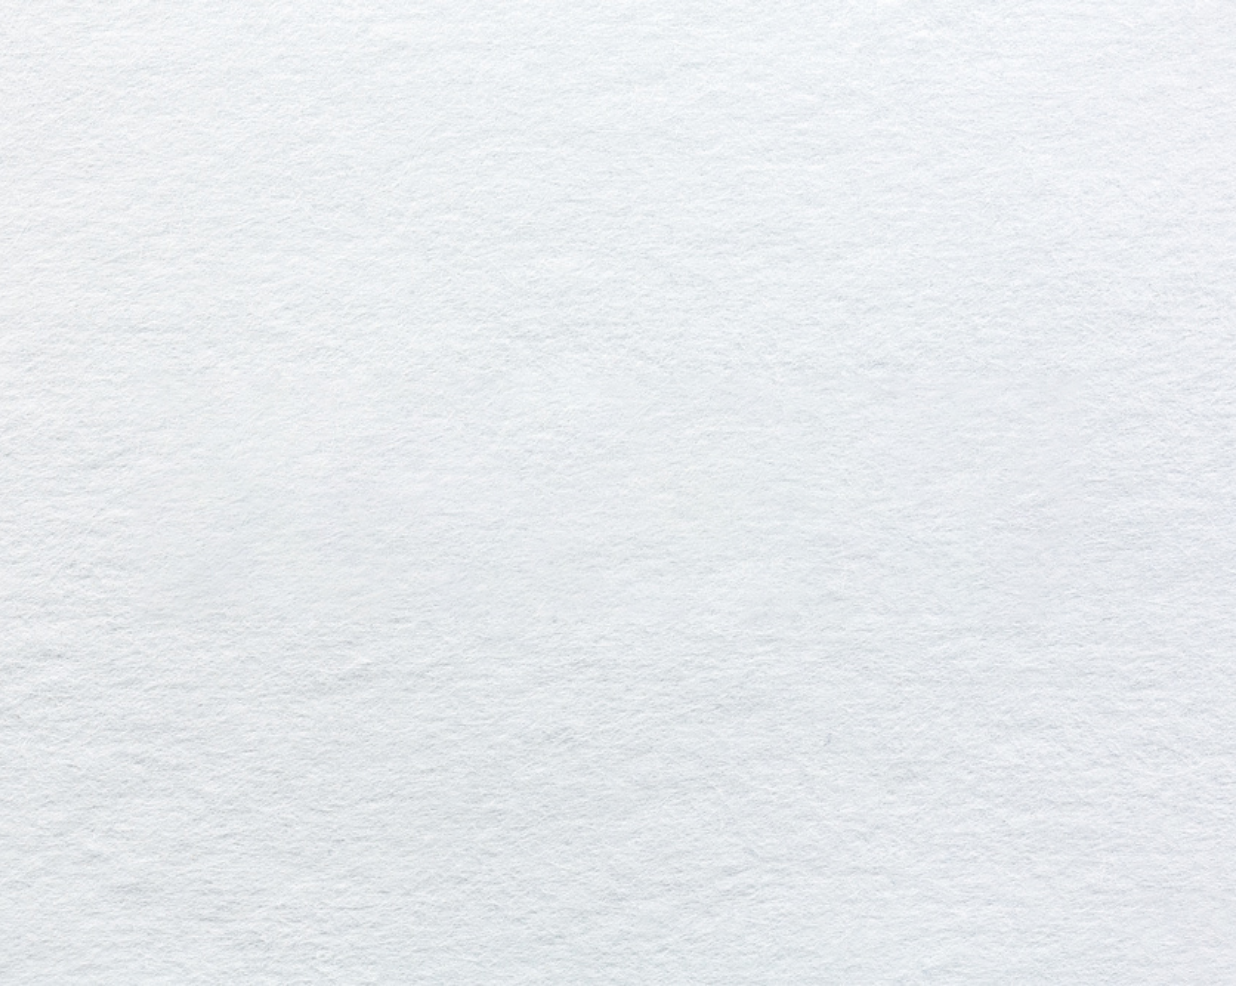
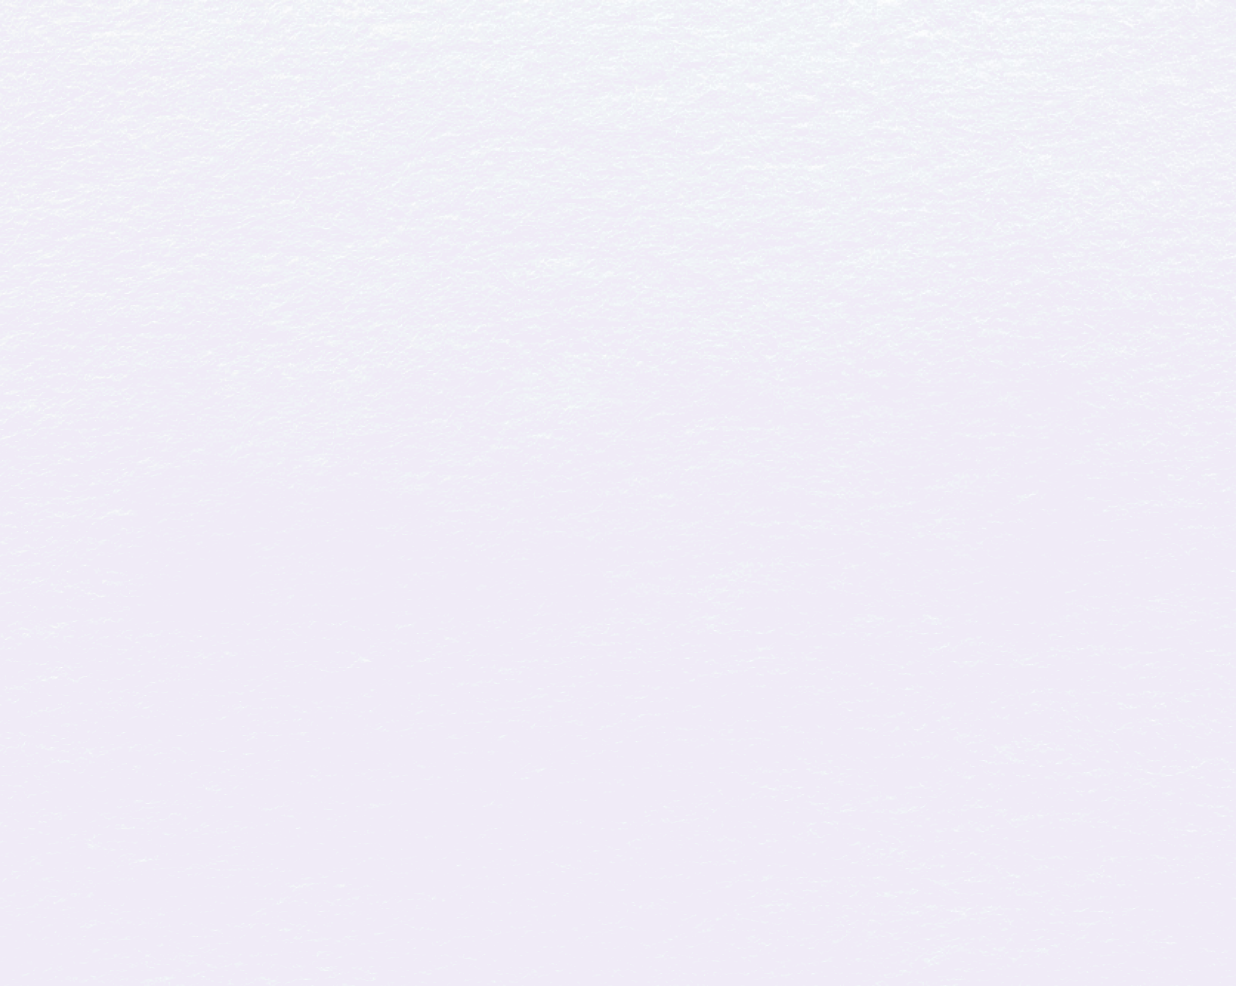
update contact title

diff --git a/src/scss/pages/contact.scss b/src/scss/pages/contact.scss
@@ -18,24 +18,26 @@
             position: relative;
             padding:rem-calc(30 42 13);
             color:#515F7A;
-            &:before{
-                content:'';
-                width:100%;
-                height:100%;
-                position: absolute;
-                top:0;
-                left:0;
-                z-index: 1;
-                background:url($basePath+'/images/contactbg.png') no-repeat;
-                mix-blend-mode: lighten;
+            background:url($basePath+'/images/contactbg.png') no-repeat;
+            // &:before{
+            //     content:'';
+            //     width:100%;
+            //     height:100%;
+            //     position: absolute;
+            //     top:0;
+            //     left:0;
+            //     z-index: 1;
+            //     background:url($basePath+'/images/contactbg.png') no-repeat;
+            //     // mix-blend-mode: lighten;
+            // }
+            #title{
+                color:$black;
+                margin-bottom:rem-calc(33);
+                mix-blend-mode: soft-light;
             }
             #infoWrap{
                 position: relative;
                 z-index: 2;
-                #title{
-                    // color:transparent;
-                    margin-bottom:rem-calc(33);
-                }
                 #tel{
                     margin-bottom:rem-calc(11);
                 }

diff --git a/pages/[lang]/contact.js b/pages/[lang]/contact.js
@@ -27,10 +27,8 @@ const Contact = () => {
             <div id="wrap" className="center">
                 <h4>The best way to understand us is to talk to us. We”ll let you choose how.</h4>
                 <div id="info">
+                    <div id="title" className="bigTitle b">Contact</div>
                     <div id="infoWrap">
-                        <div id="title" className="bigTitle b">
-                            Contact
-                        </div>
                         <div id="tel" className="bigTitle l">+ 852 2146 2890</div>
                         <h3>Info@Warmpaper-Design.Com</h3>
                         <h6>Talk to us about your exciting project.</h6>
